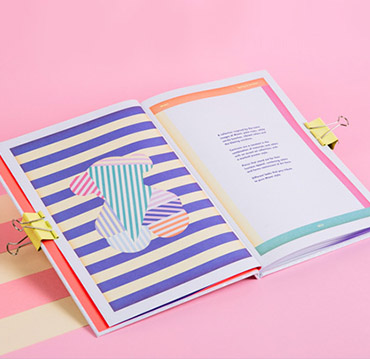
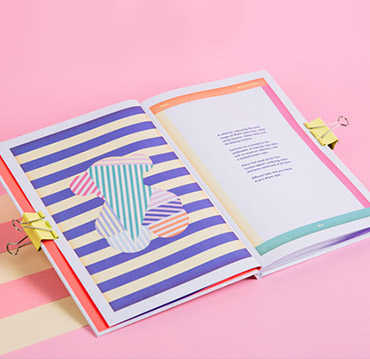
feat: opimize all img, add hover effects

diff --git a/css/style.css b/css/style.css
@@ -40,7 +40,7 @@ h1 {
 	text-align: center;
 	margin: 192px 0 133px 0;
 	line-height: 1.4;
-	letter-spacing: 3px;
+	letter-spacing: 5px;
 	color: #505050;
 	text-shadow: 8px 8px 5px #cfcfcf;
 }
@@ -97,6 +97,14 @@ h1 span:nth-child(1) {
 	cursor: pointer;
 	outline: none;
 	text-decoration: none;
+	-webkit-transition: all 0.3s ease;;
+  -moz-transition: all 0.3s ease;;
+  -o-transition: all 0.3s ease;;
+  transition: all 0.3s ease;
+}
+
+.header__btn-contact-us:hover {
+	background-color: #aaaaaa;
 }
 
 .header__glass {
@@ -264,6 +272,11 @@ article h4:nth-last-child(2) {
 	padding: 160px 150px 125px 150px;
 	background: url(../img/background-contacts.jpg) center center no-repeat;
 }
+
+.contacts h2 {
+	display: none;
+}
+
 .section__contacts {
 	display: flex;
 	justify-content: center;
@@ -320,7 +333,7 @@ input::placeholder, textarea::placeholder {
 	border: none;
 	border-radius: 4px;
 	font-family: 'Montserrat', sans-serif;
-	font-weight: 700;
+	font-weight: 500;
 	font-size: 1.8rem;
 	text-transform: uppercase;
 	color: #214744;
@@ -328,6 +341,14 @@ input::placeholder, textarea::placeholder {
 	cursor: pointer;
 	outline: none;
 	text-decoration: none;
+	-webkit-transition: all 0.3s ease;;
+  -moz-transition: all 0.3s ease;;
+  -o-transition: all 0.3s ease;;
+  transition: all 0.3s ease;
+}
+
+.form-btn:hover {
+	background-color: #b3f3ee;
 }
 
 .form-map {
@@ -387,6 +408,10 @@ footer h2 {
 	background-color: #262b2e;
 	margin: 5px 7px;
 	border-radius: 0 !important;
+	-webkit-transition: all 0.3s ease;;
+  -moz-transition: all 0.3s ease;;
+  -o-transition: all 0.3s ease;;
+  transition: all 0.3s ease;
 }
 
 .fa-facebook-square:hover, 

diff --git a/index.html b/index.html
@@ -4,7 +4,7 @@
 		<meta charset='utf-8'>
 		<meta http-equiv='X-UA-Compatible' content='IE=edge'>
 		<meta name='viewport' content='width=device-width, initial-scale=1.0'>
-		<!-- The above 3 meta tags *must* come first in the head; any other head content must come *after* these tags -->
+		<!-- The above 3 meta tags *must* come first in the head any other head content must come *after* these tags -->
 		<title>Shopno</title>
 		<link rel="stylesheet" href="https://unpkg.com/modern-css-reset/dist/reset.min.css" />
 		<link rel='stylesheet' type='text/css' href='./css/style.css'>
@@ -81,6 +81,7 @@
 			</section>
 
 			<section class="section contacts">
+				<h2>contacts</h2>
 				<div class="section__contacts">
 					<form class="form-contacts" action="#">
 						<input class="form-input" id="name" type="text" placeholder="Name*">
